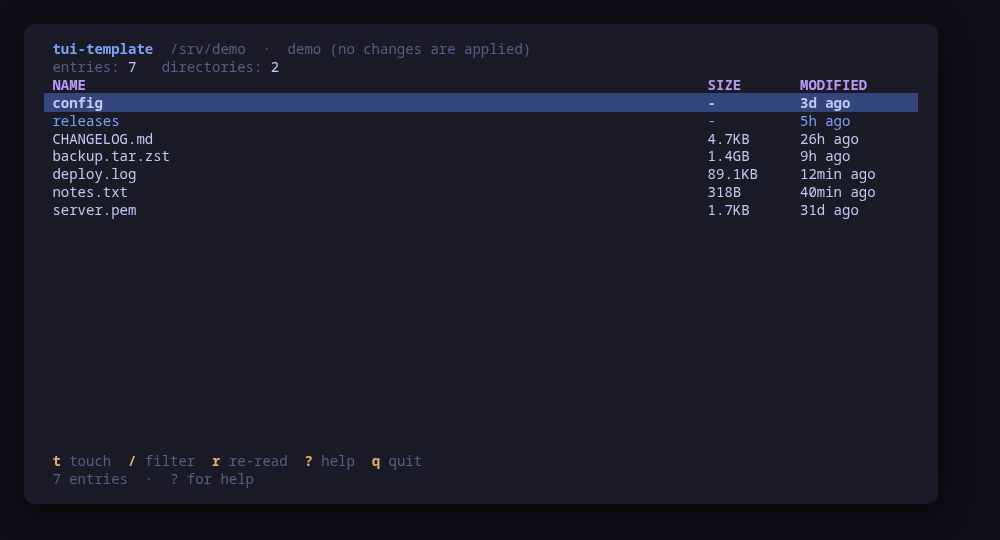
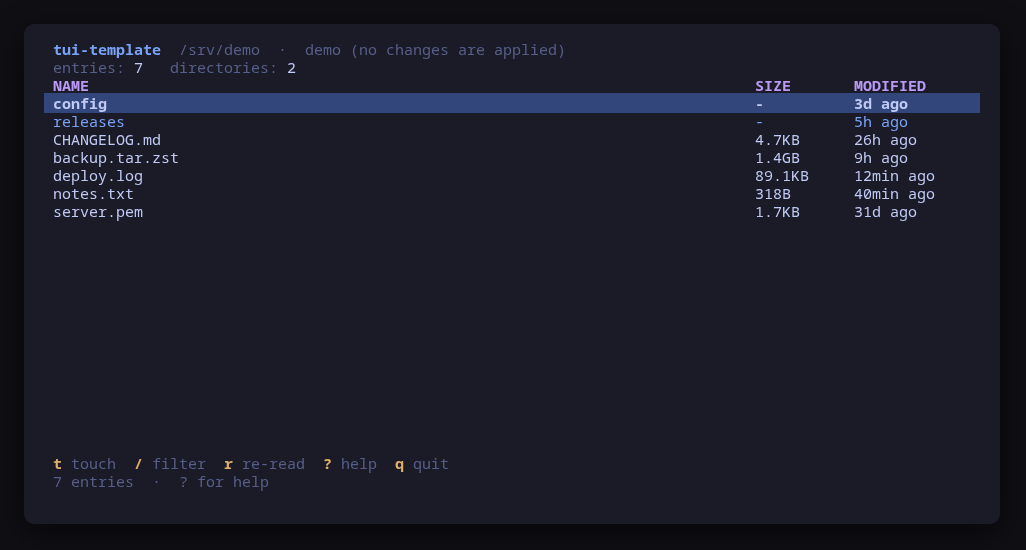
Template: tui-kit v0.4.4 (#19)
Claude-Session: https://claude.ai/code/session_01MbCfX3T8khyd9hsrN5kMo3

Changed region(s): [[0.031, 0.0593, 0.961, 0.4148], [0.031, 0.8296, 0.93, 0.9481], [0.279, 0.0593, 0.558, 0.1185]]

diff --git a/README.md b/README.md
@@ -3,7 +3,11 @@
 [![OpenSSF Scorecard](https://api.securityscorecards.dev/projects/github.com/tui-tools/tui-template/badge)](https://scorecard.dev/viewer/?uri=github.com/tui-tools/tui-template)
 [![OpenSSF Best Practices](https://www.bestpractices.dev/projects/14368/badge)](https://www.bestpractices.dev/projects/14368)
 
-> **Beta.** The family is days old and still changing. Package names, flags and keys may move without notice until 1.0. Pin versions, and report what breaks.
+<!-- stability:start -->
+> **Beta.** The family is days old and still changing. Package names, flags
+> and keys may move without notice until 1.0. Pin versions, and report what
+> breaks.
+<!-- stability:end -->
 
 # tui-template
 
